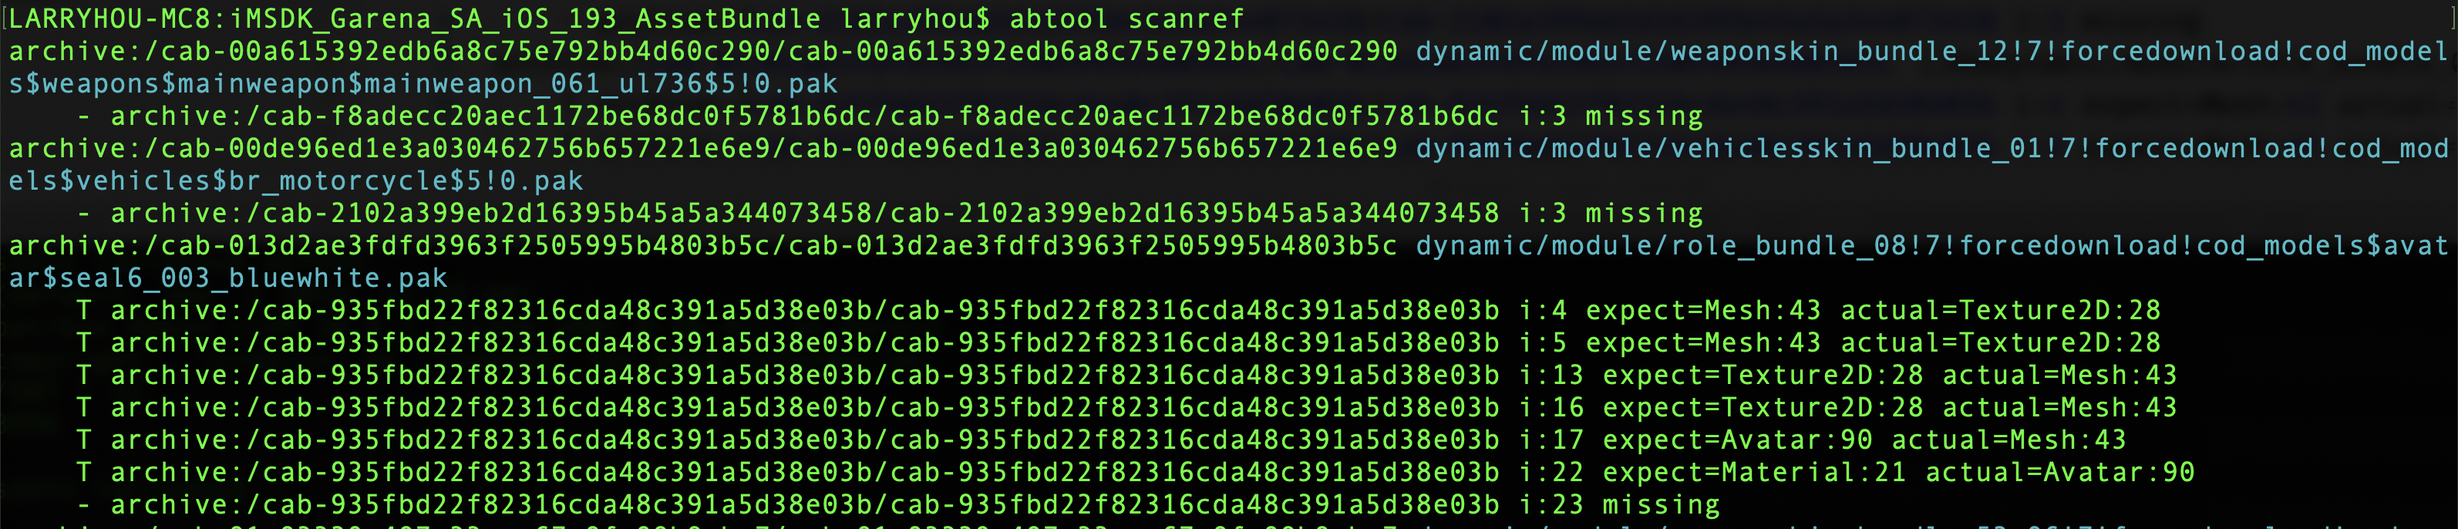
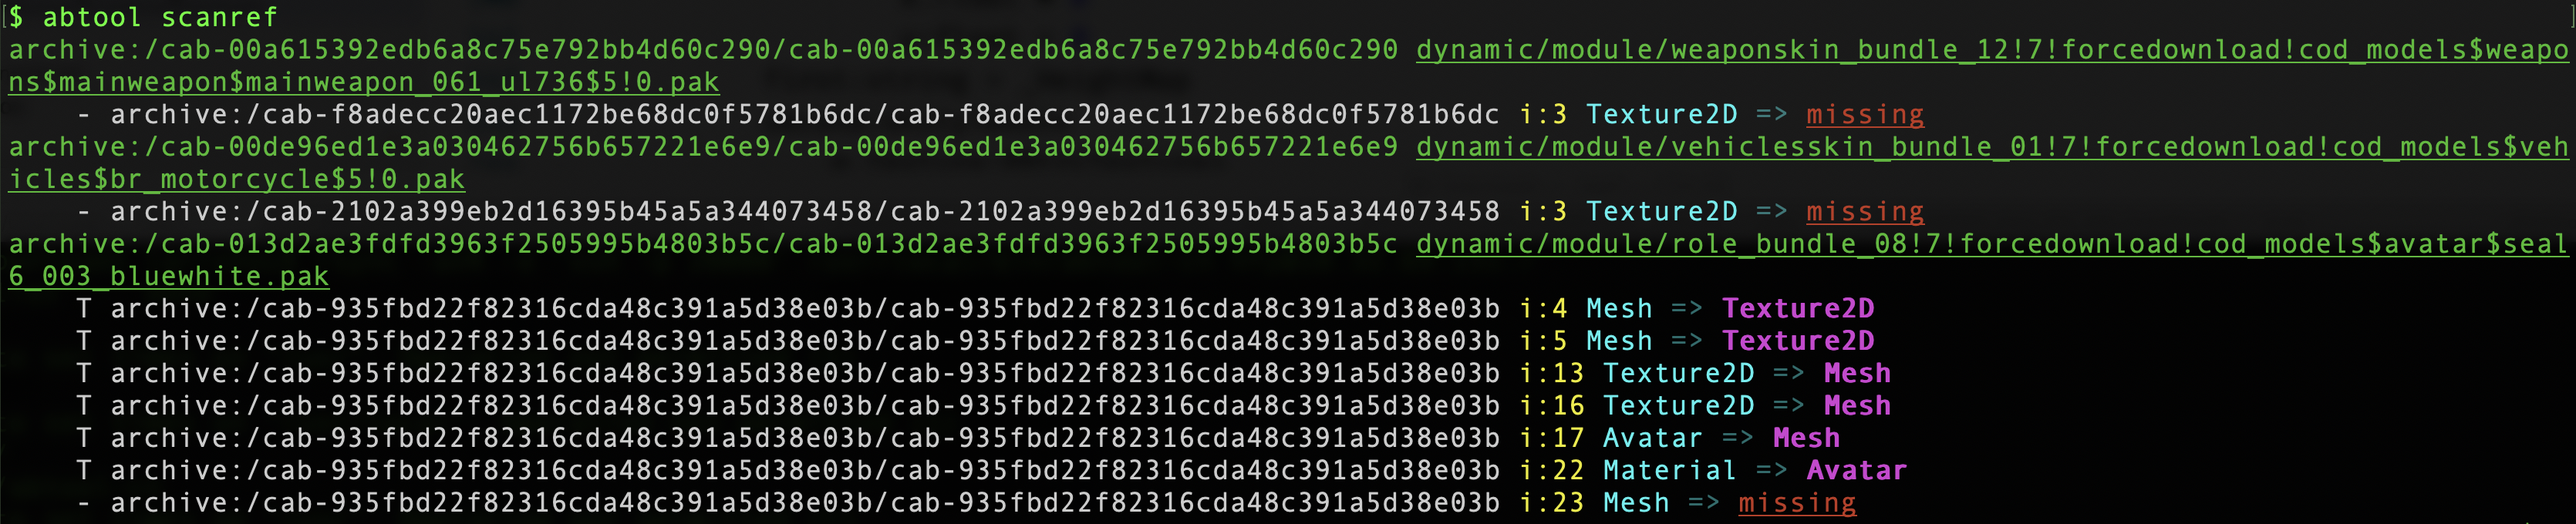
Update

Changed region(s): [[0.0, 0.0, 1.0, 1.0], [0.8074, 0.9882, 0.8695, 1.0]]

diff --git a/chaps/cases/missing.md b/chaps/cases/missing.md
@@ -1,0 +1,185 @@
+# 资源引用丢失
+---
+
+在增量编译过程中如果Unity闪退了，除了会产生导致崩溃的问题资源，也会导致一些不那么严重、但是非常奇怪的渲染结果：屏幕渲染出现紫块或者渲染效果异常，通过`scanref`也可以发现问题。
+
+比如上次我们制作了一把KFC主题的战斗刀，Editor里面看到是正常的
+![](missing/knife.png)
+
+但是真机运行的时候就比较奇怪了，明显刀刃的贴图错了，并且刀把的质感也不是特别好。
+![](missing/knife-missing.jpg)
+
+这种情况下使用`scanref`检查一遍资源引用，发现了问题
+```
+find . -iname '*.pak' | xargs abtool scanref
+```
+![](missing/scanref.png)
+
+从日志看，资源`dynamic/module/kfc!7!forcedownload!cod_models$weapons$meleeweapon$meleeweapon_014_knifes$cn2!0.pak`引用了另外一个ab资源`dynamic/module/common!7!forcedownload!cod_models$weapons$meleeweapon$meleeweapon_014_knifes$5!0.pak`里面索引为`6`贴图，但是后者资源里面并没有这个贴图，那么这种情况需要把资源`dynamic/module/common!7!forcedownload!cod_models$weapons$meleeweapon$meleeweapon_014_knifes$5!0.pak`从构建机删掉重新打包。
+
+定位这个问题，还可以从另外一个角度入手。首先通过`saveobj`命令保存资源的基本信息。
+```
+find . -iname '*.pak' | xargs abtool saveobj
+```
+然后通过`getref -r`命令直接查找出问题的材质球引用的资源列表，其中`-r`参数表示查找逆向下游资源的引用列表，没有`-r`参数情况下该命令查找当前资源的上游引用列表。
+
+![](missing/getref.png)
+
+那么也能发现`KnifeS_KFC.mat`引用第五个贴图在目标资源`dynamic/module/common!7!forcedownload!cod_models$weapons$meleeweapon$meleeweapon_014_knifes$5!0.pak`里面找不到，两种方法得到同样结果。
+
+上面被丢失的资源是贴图，如果丢失的资源是材质球，那么就会表现为屏幕紫块，定位方式类似。需要说明的是，上面提到的资源引用丢失问题指的是资源引用在，但是目标资源不存在的情况，如果原始资源引用指针为空，那么这种问题在开发阶段阶段就能发现，当然工具也能发现引用为空的情况。
+
+为了确认资源指针是否为空，我们需要用到另外一个命令`edit`
+
+```
+abtool edit dynamic/module/kfc\!7\!forcedownload\!cod_models\$weapons\$meleeweapon\$meleeweapon_014_knifes\$cn2\!0.pak 
+```
+然后进入命令行交互模式，在这种模式可以执行`lua`脚本，比如可以输入`lua file:dump_object(2)`，其中`2`为`KnifeS_KFC.mat`的资源索引，通过`getref`命令得到的。
+```c++
+$ lua file:dump_object(2)
+<Material:21> id=2
+    m_Name:string = KnifeS_KFC
+    m_Shader:PPtr<Shader>
+        m_FileID = 5
+        m_PathID = 34
+    m_ShaderKeywords:string = _DYNAMIC_ADVANCE_DETAIL_LERP
+    m_LightmapFlags:uint32_t = 4
+    m_EnableInstancingVariants:bool = 1
+    m_DoubleSidedGI:bool = 0
+    m_CustomRenderQueue:int32_t = -1
+    stringTagMap:map<string,string>
+    disabledShaderPasses:vector<string>
+    m_SavedProperties:UnityPropertySheet
+        m_TexEnvs:map<string,UnityTexEnv>
+            first:string = _AlphaMap
+            second:UnityTexEnv
+                m_Texture:PPtr<Texture>
+                    m_FileID = 0
+                    m_PathID = 0
+                m_Scale:Vector2f
+                    x:float = 1
+                    y:float = 1
+                m_Offset:Vector2f
+                    x:float = 0
+                    y:float = 0
+            first:string = _BentNormalMap
+            second:UnityTexEnv
+                m_Texture:PPtr<Texture>
+                    m_FileID = 0
+                    m_PathID = 0
+                m_Scale:Vector2f
+                    x:float = 1
+                    y:float = 1
+                m_Offset:Vector2f
+                    x:float = 0
+                    y:float = 0
+            first:string = _BumpMapPakced
+            second:UnityTexEnv
+                m_Texture:PPtr<Texture>
+                    m_FileID = 1
+                    m_PathID = 4
+                m_Scale:Vector2f
+                    x:float = 1
+                    y:float = 1
+                m_Offset:Vector2f
+                    x:float = 0
+                    y:float = 0
+            first:string = _CutRimTex
+            second:UnityTexEnv
+                m_Texture:PPtr<Texture>
+                    m_FileID = 0
+                    m_PathID = 0
+                m_Scale:Vector2f
+                    x:float = 1
+                    y:float = 1
+                m_Offset:Vector2f
+                    x:float = 0
+                    y:float = 0
+            first:string = _DetailAlbedoMap
+            second:UnityTexEnv
+                m_Texture:PPtr<Texture>
+                    m_FileID = 4
+                    m_PathID = 3
+                m_Scale:Vector2f
+                    x:float = 3
+                    y:float = 3
+                m_Offset:Vector2f
+                    x:float = -0.15
+                    y:float = 0.8
+            first:string = _DetailNormalMap
+            second:UnityTexEnv
+                m_Texture:PPtr<Texture>
+                    m_FileID = 0
+                    m_PathID = 0
+                m_Scale:Vector2f
+                    x:float = 1
+                    y:float = 1
+                m_Offset:Vector2f
+                    x:float = 0
+                    y:float = 0
+            first:string = _EmissionMap
+            second:UnityTexEnv
+                m_Texture:PPtr<Texture>
+                    m_FileID = 0
+                    m_PathID = 0
+                m_Scale:Vector2f
+                    x:float = 1
+                    y:float = 1
+                m_Offset:Vector2f
+                    x:float = 0
+                    y:float = 0
+            first:string = _HeightMap
+            second:UnityTexEnv
+                m_Texture:PPtr<Texture>
+                    m_FileID = 0
+                    m_PathID = 0
+                m_Scale:Vector2f
+                    x:float = 1
+                    y:float = 1
+                m_Offset:Vector2f
+                    x:float = 0
+                    y:float = 0
+            first:string = _MainTex
+            second:UnityTexEnv
+                m_Texture:PPtr<Texture>
+                    m_FileID = 1
+                    m_PathID = 5
+                m_Scale:Vector2f
+                    x:float = 1
+                    y:float = 1
+                m_Offset:Vector2f
+                    x:float = 0
+                    y:float = 0
+            first:string = _MetallicRoughnessMap
+            second:UnityTexEnv
+                m_Texture:PPtr<Texture>
+                    m_FileID = 2
+                    m_PathID = 6
+                m_Scale:Vector2f
+                    x:float = 1
+                    y:float = 1
+                m_Offset:Vector2f
+                    x:float = 0
+                    y:float = 0
+            first:string = custom_IBLCubemap
+            second:UnityTexEnv
+                m_Texture:PPtr<Texture>
+                    m_FileID = 3
+                    m_PathID = 4
+                m_Scale:Vector2f
+                    x:float = 1
+                    y:float = 1
+                m_Offset:Vector2f
+                    x:float = 0
+                    y:float = 0
+```
+
+在Unity资源里面通过`PPtr<T>`表示一个资源引用，比如，上面丢失的`_MetallicRoughnessMap`贴图，它的指针有两个字段：`m_FileID`表示目标资源的文件索引，`m_PathID`表示目标资源在目标文件里面的资源索引ID，其中`m_FileID`可以通过`SerializedFile`的metadata里面可以索引到一个全局唯一的路径`archive:/cab-3fc774b79be2c61a94690dbb2913f522/cab-3fc774b79be2c61a94690dbb2913f522`，这样通过`m_FileID`和`m_PathID`两个字段可以全局确定一个唯一的资源对象。
+```c++
+first:string = _MetallicRoughnessMap
+second:UnityTexEnv
+    m_Texture:PPtr<Texture>
+        m_FileID = 2
+        m_PathID = 6
+```
+`m_FileID=0`表示当前资源指针指向当前文件内的资源对象，`m_PathID=0`表示当前资源指针为空，这时通过Unity的Inspector可以看到资源的槽位是空的，所以如果发现某个资源指针的`m_PathID=0`那么这就是一个资源空引用案例。

diff --git a/chaps/cases/crash.md b/chaps/cases/crash.md
@@ -9,7 +9,7 @@
 
 图中的日志是什么含义呢？那是纯正的崩溃的味道！
 ```
-T archive:/cab-935fbd22f82316cda48c391a5d38e03b/cab-935fbd22f82316cda48c391a5d38e03b i:4 expect=Mesh:43 actual=Texture2D:28
+T archive:/cab-935fbd22f82316cda48c391a5d38e03b/cab-935fbd22f82316cda48c391a5d38e03b i:4 Mesh => Texture2D
 ```
 针对其中一行日志简单解释下，`archive:/`开头一串文本是ab里面`SerializedFile`的路径，可以用来寻址。资源`dynamic/module/role_bundle_08!7!forcedownload!cod_models$avatar$seal6_003_bluewhite.pak`里面id为`767`的`SkinnedMeshRenderer`对象拥有一个外部资源指针`PPtr<Mesh>`，指向另外一个ab资源文件(`archive:/cab-935fbd22f82316cda48c391a5d38e03b/cab-935fbd22f82316cda48c391a5d38e03b`)中索引为`m_PathID=4`的对象，但是目标引用路径的资源其实是个`Texture2D`对象。
 

diff --git a/SUMMARY.md b/SUMMARY.md
@@ -10,7 +10,7 @@
         * [模型](chaps/cases/reverse/model.md)
     * [资源防护](chaps/cases/protect.md)
     * [资源引发崩溃](chaps/cases/crash.md)
-    * [资源引用丢失](chaps/cases/noref.md)
+    * [资源引用丢失](chaps/cases/missing.md)
     * [资源显示异常](chaps/cases/display.md)
     * [资源差异比对](chaps/cases/compare.md)
     * [资源编辑](chaps/cases/edit.md)
